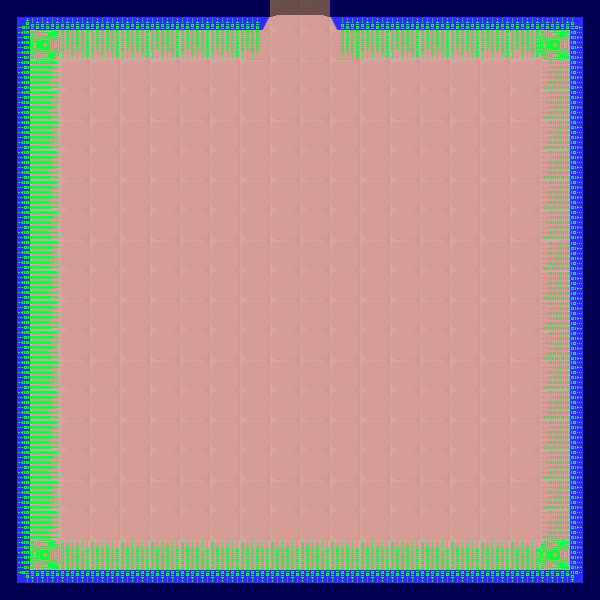
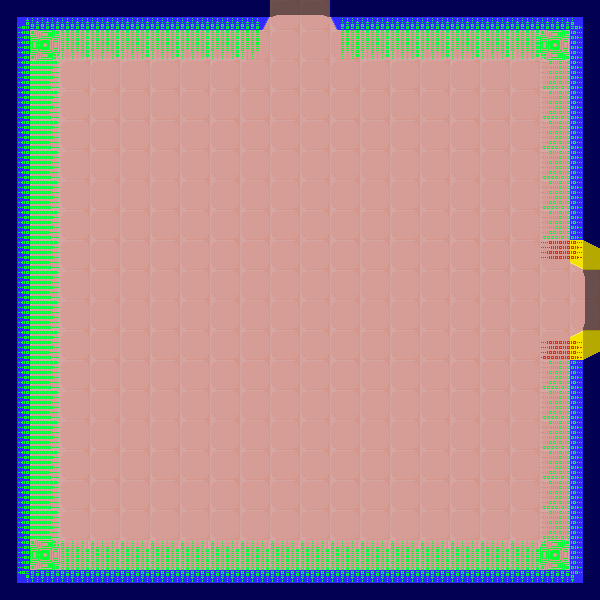
Added endscreen after bossroom-3. Gave lvl3 gold doors to the bossroom and the endscreendoor

Changed region(s): [[0.9, 0.39, 1.0, 0.6]]

diff --git a/w5/docs/js/main.js b/w5/docs/js/main.js
@@ -514,7 +514,7 @@ var Game = (function () {
                 else if (background.classList.contains("room11-3")) {
                     _this.enterNewRoom("N", "room11-3", "room9-3", false, true, true, true);
                     _this.enterNewRoom("E", "room11-3", "room12-3", true, false, false, true);
-                    _this.enterNewRoom("S", "room11-3", "bossroom-3", true, false, false, false);
+                    _this.enterNewRoom("S", "room11-3", "bossroom-3", true, true, false, false);
                 }
                 else if (background.classList.contains("room12-3")) {
                     _this.enterNewRoom("N", "room12-3", "room10-3", true, false, true, true);
@@ -525,6 +525,7 @@ var Game = (function () {
                 }
                 else if (background.classList.contains("bossroom-3")) {
                     _this.enterNewRoom("N", "bossroom-3", "room11-3", true, true, true, false);
+                    _this.enterNewRoom("E", "bossroom-3", "spawn-1", true, false, false, false);
                 }
             }
             requestAnimationFrame(function () { return _this.gameLoop(); });
@@ -553,6 +554,9 @@ var Game = (function () {
             if (newRoom === "spawn-1" || newRoom === "spawn-2" || newRoom === "spawn-3" ||
                 newRoom === "shop-1" || newRoom === "shop-2" || newRoom === "shop-3") {
                 amountOfPigeons = 0;
+            }
+            if (currentRoom === "bossroom-3" && direction === "E") {
+                window.location.replace("/Project-Pigeon/endscreen.html");
             }
             if (direction === "N") {
                 if (doorN) {

diff --git a/w5/dev/game.ts b/w5/dev/game.ts
@@ -343,7 +343,7 @@ class Game {
             {
                 this.enterNewRoom("N", "room11-3", "room9-3", false, true, true, true)
                 this.enterNewRoom("E", "room11-3", "room12-3", true, false, false, true)
-                this.enterNewRoom("S", "room11-3", "bossroom-3", true, false, false, false)
+                this.enterNewRoom("S", "room11-3", "bossroom-3", true, true, false, false)
             }
 
             else if (background.classList.contains("room12-3")) 
@@ -360,6 +360,7 @@ class Game {
             else if (background.classList.contains("bossroom-3")) 
             {
                 this.enterNewRoom("N", "bossroom-3", "room11-3", true, true, true, false)
+                this.enterNewRoom("E", "bossroom-3", "spawn-1", true, false, false, false)
             }
         }
 
@@ -395,6 +396,10 @@ class Game {
         if (newRoom === "spawn-1" || newRoom === "spawn-2" || newRoom === "spawn-3" || 
         newRoom === "shop-1" || newRoom === "shop-2" || newRoom === "shop-3") { amountOfPigeons = 0 }
 
+        // If you take the east door in bossroom-3 give endscreen
+        if (currentRoom === "bossroom-3" && direction === "E") {
+            window.location.replace("/Project-Pigeon/endscreen.html")
+        }
 
         // North door
         if (direction === "N") { 

diff --git a/endscreen.html b/endscreen.html
@@ -1,0 +1,21 @@
+<!DOCTYPE html>
+<html lang="en">
+<head>
+    <meta charset="UTF-8">
+    <meta name="viewport" content="width=device-width, initial-scale=1.0">
+    <link href='https://fonts.googleapis.com/css?family=Press Start 2P' rel='stylesheet'>
+    <link href="css/styleDead.css" rel="stylesheet" type="text/css">
+    <link rel="icon" href="img/pigeonIcon.png">
+    <title>Congratz!</title>
+</head>
+<body>
+    <div class="gameWindow"> 
+        <h1>Congratz!</h1>
+        <p>You have faced the pigeonpoop and emerged a winner!</p>
+        <p>Well done.</p>
+        <form action="/Project-Pigeon/index.html">
+            <input class="button" type="submit" value="Restart"/>
+        </form>
+    </div>
+</body>
+</html>
